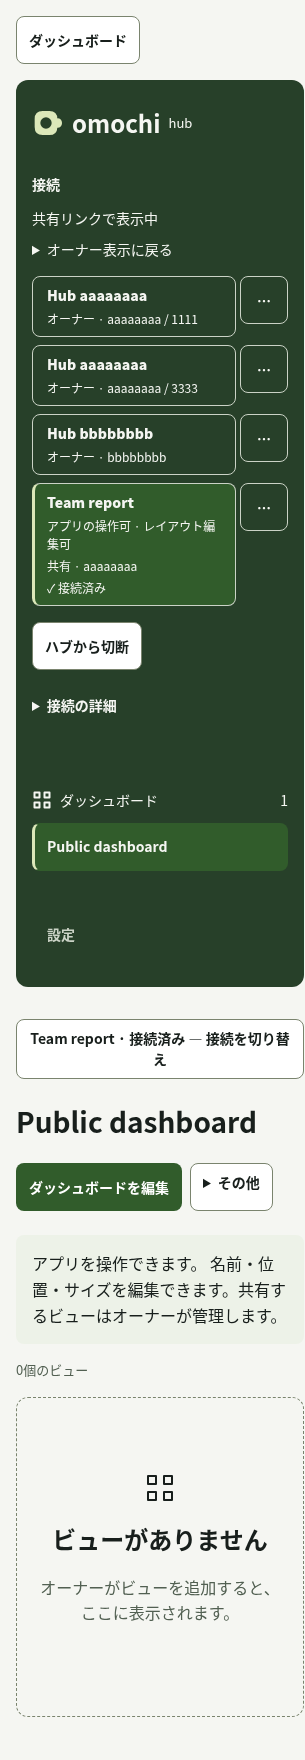
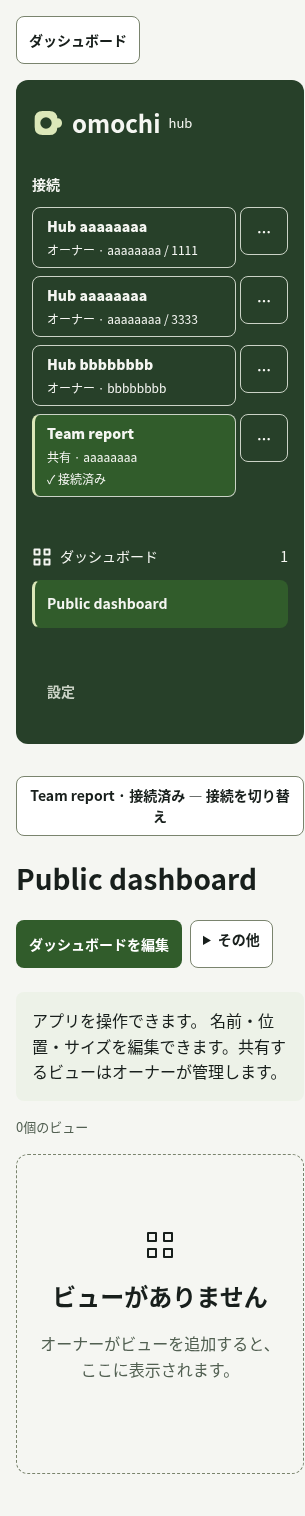
update dashboard UI

diff --git a/packages/hub-ui/src/remote/ConnectionControls.tsx b/packages/hub-ui/src/remote/ConnectionControls.tsx
@@ -5,57 +5,49 @@ import { Modal } from '../dialogs.js';
 import type { ConnectionAction, ConnectionState, ConnectionEntry } from './connection-controller.js';
 import { nativeConnectionLink } from './native-link.js';
 
-export function ConnectionControls({ state, dispatch, heading, onForget, onReset }: {
+export function ConnectionControls({ state, dispatch, heading, showHeading = true, onForget }: {
   state: ConnectionState;
   dispatch(action: ConnectionAction): Promise<void>;
   heading?: Ref<HTMLHeadingElement>;
+  showHeading?: boolean;
   onForget?: (record: ConnectionEntry, trigger: HTMLElement) => void;
-  onReset(trigger: HTMLElement): void;
 }) {
   const { t } = useTranslation();
-  const { active, browserId, entries, busy, error, listError } = state;
+  const { active, entries, busy, error, listError } = state;
   const [manage, setManage] = useState<{ entry: ConnectionEntry; trigger: HTMLElement } | null>(null);
   const [name, setName] = useState('');
   const [invalid, setInvalid] = useState(false);
-  const appLink = active?.kind === 'public' ? nativeConnectionLink(active.link) : null;
-  const owners = entries.filter(e => e.owner && e.hubId === active?.id.split('/')[0]);
+  const managedEntry = manage && (entries.find(entry => entry.id === manage.entry.id) ?? manage.entry);
+  const managedActive = active?.id === managedEntry?.id ? active : null;
+  const appLink = managedEntry?.link ? nativeConnectionLink(managedEntry.link) : null;
   const label = (entry: ConnectionEntry) => entry.name || t('connection.defaultName');
   const select = (id: string) => { void dispatch({ type: 'select', id }); };
   return <section className="shared-connections" aria-label={t('connection.label')}>
-    <h2 ref={heading} tabIndex={-1}>{t('connection.title')}</h2>
-    {active && !active.owner && <div className="share-context">
-      <p>{t('connection.viewingShare')}</p>
-
-      {owners.length === 1 ? <Button disabled={busy} onClick={() => select(owners[0]!.id)}>{t('connection.returnOwner')}</Button>
-        : owners.length > 1 ? <details><summary>{t('connection.returnOwner')}</summary>{owners.map(owner => <Button key={owner.id} disabled={busy} onClick={() => select(owner.id)}>{label(owner)} · {owner.grantId.slice(0, 8)}</Button>)}</details> : <p>{t('connection.chooseConnection')}</p>}
-    </div>}
+    <h2 ref={heading} hidden={!showHeading} tabIndex={-1}>{t('connection.title')}</h2>
     {listError && <div role="alert"><p>{t(`sessionError.${listError.code}`)}</p><Button disabled={busy} onClick={() => { void dispatch({ type: 'refresh' }); }}>{t('connection.retryOpen')}</Button></div>}
     {!entries.length && <p>{busy ? t('connection.loading') : t('connection.empty')}</p>}
     <div className="connection-list">
       {entries.map(entry => <article className={`connection-record ${active?.id === entry.id ? 'selected' : ''}`} key={entry.id} data-connection-id={entry.id} data-persistent={entry.persistent}>
         <Button static className="connection-select" aria-current={active?.id === entry.id ? 'true' : undefined} disabled={busy} onClick={() => select(entry.id)}>
           <strong>{label(entry)}</strong>
-          {entry.link && active?.id === entry.id && <small>{active.view?.permissions.interact ? t('connection.canInteract') : t('connection.viewOnly')} · {active.view?.permissions.editLayout ? t('connection.canEdit') : t('connection.noEdit')}</small>}
           <small>{entry.owner ? t('connection.ownerRole') : t('connection.shareRole')} · {entry.hubId.slice(0, 8)}{entries.filter(e => e.hubId === entry.hubId && e.owner === entry.owner).length > 1 ? ` / ${entry.grantId.slice(0, 4)}` : ''}</small>
           {(entry.state === 'pending' || active?.id === entry.id || !entry.persistent) && <small>{entry.state === 'pending' ? t('connection.pending') : active?.id === entry.id ? `${active.status === 'Connected' ? '✓' : active.status === 'Connecting' || active.status === 'Reconnecting' ? '…' : '!'} ${t(`status.${active.status}` as 'status.Connected')}` : !entry.persistent ? t('connection.tabOnly') : t('connection.saved')}</small>}
         </Button>
         <Button disabled={busy} className="connection-manage" aria-label={t('connection.manage', { name: label(entry) })} aria-haspopup="dialog" onClick={event => { setName(label(entry)); setInvalid(false); setManage({ entry, trigger: event.currentTarget }); }}>…</Button>
       </article>)}
     </div>
-    <div className="toolbar connection-actions">
-      {active && <Button disabled={busy || !!state.invitation} onClick={() => { void dispatch({ type: 'disconnect' }); }}>{t('connection.disconnect')}</Button>}
+    {(active && active.status !== 'Connected' || error && !active) && <div className="toolbar connection-actions">
       {active && active.status !== 'Connected' && <Button disabled={busy} onClick={() => { void dispatch({ type: 'retry' }); }}>{t('connection.retry')}</Button>}
       {error && !active && <Button disabled={busy} onClick={() => { void dispatch({ type: 'retry' }); }}>{t('connection.retryOpen')}</Button>}
-    </div>
-    <details className="connection-details">
-      <summary>{t('connection.details')}</summary>
-      <dl>{active && <><dt>{t('connection.hubId')}</dt><dd><code>{active.id.split('/')[0]}</code></dd></>}
-        {!active && browserId && <><dt>{t('connection.browserId')}</dt><dd><code data-browser-id={browserId}>{browserId}</code></dd></>}
-      </dl>
-      {appLink && <p><a href={appLink}>{t('native.open')}</a></p>}
-      {!active && <Button disabled={busy} className="danger" onClick={event => onReset(event.currentTarget)}>{t('connection.reset')}</Button>}
-    </details>
-    {manage && <Modal labelledBy="connection-manage-title" title={t('connection.manage', { name: label(manage.entry) })} returnTo={manage.trigger} onClose={() => setManage(null)}>
+    </div>}
+    {manage && managedEntry && <Modal className="connection-dialog" labelledBy="connection-manage-title" title={t('connection.manageTitle')} returnTo={manage.trigger} onClose={() => setManage(null)}>
+      {managedActive && <section className="connection-session">
+        <p>{t('connection.current')} · {t(`status.${managedActive.status}` as 'status.Connected')}</p>
+        {!managedActive.owner && managedActive.view && <p>{managedActive.view.permissions.interact ? t('connection.canInteract') : t('connection.viewOnly')} · {managedActive.view.permissions.editLayout ? t('connection.canEdit') : t('connection.noEdit')}</p>}
+        <div className="toolbar">
+          <Button className="connection-disconnect" disabled={busy || !!state.invitation} onClick={() => { setManage(null); void dispatch({ type: 'disconnect' }); }}>{t('connection.disconnect')}</Button>
+        </div>
+      </section>}
       <form onSubmit={event => { event.preventDefault(); if (!name.trim()) { setInvalid(true); return; } void dispatch({ type: 'rename', id: manage.entry.id, name }); }}>
         <label htmlFor="connection-name">{t('connection.name')}</label>
         <input id="connection-name" value={name} maxLength={200} aria-invalid={invalid} aria-describedby={invalid ? 'connection-name-error' : undefined} onChange={e => setName(e.target.value)} />
@@ -64,9 +56,12 @@ export function ConnectionControls({ state, dispatch, heading, onForget, onReset
       </form>
       <p role="status">{state.feedback && t(`connection.${state.feedback}`)}</p>
       {error && <p role="alert">{t(`sessionError.${error.code}`)}</p>}
-      <dl><dt>{t('connection.hubId')}</dt><dd><code>{manage.entry.hubId}</code></dd><dt>{t('connection.grantId')}</dt><dd><code>{manage.entry.grantId}</code></dd></dl>
-      {manage.entry.link && <><p>{t('connection.saveHelp')}</p><Button disabled={busy} onClick={() => { void dispatch({ type: 'saveShare', id: manage.entry.id }); }}>{t('connection.saveShare')}</Button></>}
-      {onForget && <Button disabled={busy} className="danger" onClick={() => { const current = manage; setManage(null); onForget(current.entry, current.trigger); }}>{t('connection.forget')}</Button>}
+      <section className="connection-details">
+        <dl><dt>{t('connection.hubId')}</dt><dd><code>{managedEntry.hubId}</code></dd><dt>{t('connection.grantId')}</dt><dd><code>{managedEntry.grantId}</code></dd></dl>
+        {appLink && <p><a href={appLink}>{t('native.open')}</a></p>}
+      </section>
+      {managedEntry.link && !managedEntry.persistent && <section className="connection-save"><p>{t('connection.saveHelp')}</p><Button disabled={busy} onClick={() => { void dispatch({ type: 'saveShare', id: managedEntry.id }); }}>{t('connection.saveShare')}</Button></section>}
+      {onForget && <div className="toolbar connection-forget"><Button disabled={busy} className="danger" onClick={() => { const current = manage; setManage(null); onForget(managedEntry, current.trigger); }}>{t('connection.forget')}</Button></div>}
     </Modal>}
   </section>;
 }

diff --git a/packages/hub-ui/src/styles.css b/packages/hub-ui/src/styles.css
@@ -229,11 +229,13 @@ body { margin: 0; }
 .shared-connections > h2 { font-size: 1rem; line-height: 1.5; margin-block: 16px; }
 .current-connection { color: var(--omochi-color-text-secondary); font-size: .875rem; }
 .connection-record > .toolbar { flex: 0 1 auto; }
-.connections-page { max-width: 960px; margin-inline: auto; line-height: 1.6; }
+.connections-page { width: 100%; max-width: 640px; margin-inline: auto; line-height: 1.6; }
+.connections-page > .connection-details { margin-block-start: var(--omochi-space-8); }
 .connections-page h1 { font-size: 2rem; line-height: 1.3; margin-block: 24px; }
 .invitation-feedback { margin: 16px; }
 
 .picker .dialog-header { position: sticky; top: -24px; z-index: 2; background: var(--omochi-color-bg-surface); margin: -24px -24px 16px; padding: 24px 24px 16px; }
+.picker { scroll-padding-block-start: var(--dialog-header-height, 0px); }
 .dialog-header h2 { flex: 1; min-width: 0; }
 .dialog-header .hub-button { flex: 0 0 auto; padding: 8px; }
 @media (max-width: 760px) { .picker .dialog-header { margin-inline: -16px; padding-inline: 16px; } }
@@ -251,13 +253,14 @@ body { margin: 0; }
 .sidebar .connection-record.selected .connection-select { background: var(--omochi-color-accent-solid); border-inline-start-color: var(--omochi-color-focus-inverse); }
 .connection-record.selected .connection-select { border-inline-start: 3px solid var(--omochi-color-accent-solid); padding-inline-start: 12px; }
 .connection-actions { margin-block-start: 16px; }
-.share-context { font-size: .875rem; margin-block-end: 16px; }
-.share-context p { margin-block: 8px; }
-.sidebar .connection-details a { color: inherit; }
+.connection-switch { overflow-wrap: anywhere; }
 .sidebar .picker { color: var(--omochi-color-text-primary); }
 .sidebar .picker :focus-visible { outline-color: var(--omochi-color-focus); }
-.sidebar .picker form { display: grid; gap: 12px; }
-.sidebar .picker dd { overflow-wrap: anywhere; }
+.connection-dialog form { display: grid; gap: 12px; }
+.connection-dialog .connection-session { margin-block-end: var(--omochi-space-6); }
+.connection-session p { margin-block: 0 var(--omochi-space-2); }
+.connection-dialog :is(.connection-details, .connection-save, .connection-forget) { margin-block-start: var(--omochi-space-6); }
+.connection-dialog a { color: var(--omochi-color-accent-solid); }
 .board-actions { position: relative; }
 .board-actions > summary { cursor: pointer; padding: 8px 12px; border: 1px solid var(--omochi-color-border-control); border-radius: var(--omochi-radius-control); min-height: 40px; font-size: .875rem; font-weight: 600; line-height: 1.5; background: var(--omochi-color-bg-surface); color: var(--omochi-color-text-primary); }
 .board-actions-menu { position: absolute; z-index: 3; inset-inline-end: 0; min-width: 200px; max-width: calc(100vw - 32px); display: grid; gap: 8px; padding: 12px; background: var(--omochi-color-bg-surface); border: 1px solid var(--omochi-color-border-control); border-radius: calc(var(--omochi-radius-control) + 12px + 1px); box-shadow: var(--omochi-shadow-surface); }

diff --git a/packages/hub-ui/src/remote/ConnectionScreen.tsx b/packages/hub-ui/src/remote/ConnectionScreen.tsx
@@ -1,6 +1,7 @@
 import { useCallback, useEffect, useRef, useState } from 'react';
 import { useTranslation } from 'react-i18next';
 import App from '../App.js';
+import { Button } from '../Button.js';
 import { DashboardNavigationProvider } from '../DashboardNavigation.js';
 import { LanguageSwitcher } from '../LanguageSwitcher.js';
 import { ShareSettings } from '../ShareSettings.js';
@@ -38,10 +39,15 @@ function Connections(props: ConnectionScreenProps) {
     state={state}
     dispatch={dispatch}
     heading={heading}
+    showHeading={!!active}
     onForget={(record, trigger) => setForget({ record, trigger })}
-    onReset={setResetTrigger}
   />;
   const notice = !invitation && <ConnectionError error={error} />;
+  const identityDetails = <details className="connection-details">
+    <summary>{t('connection.details')}</summary>
+    {browserId && <dl><dt>{t('connection.browserId')}</dt><dd><code data-browser-id={browserId}>{browserId}</code></dd></dl>}
+    <Button disabled={busy} className="danger" onClick={event => setResetTrigger(event.currentTarget)}>{t('connection.reset')}</Button>
+  </details>;
 
   return <>
     <GatewayInvitation
@@ -52,7 +58,8 @@ function Connections(props: ConnectionScreenProps) {
       ownsProfile={state.ownsProfile}
       connections={<>
         {!active && notice}
-        <ConnectionControls state={state} dispatch={dispatch} onReset={setResetTrigger} />
+        <ConnectionControls state={state} dispatch={dispatch} />
+        {!active && identityDetails}
       </>}
       suspended={!!invitation}
     />
@@ -73,12 +80,14 @@ function Connections(props: ConnectionScreenProps) {
       renderSharing={active.owner
         ? board => <ShareSettings boardId={board.id} repository={new OwnerSharingRepository(active.session)} />
         : undefined}
-    /> : <div className="hub-layout nav-open"><aside className="sidebar">{controls}</aside><main className="workspace connections-page">
+    /> : <main id="workspace" tabIndex={-1} className="workspace connections-page">
       <div className="workspace-status"><LanguageSwitcher /></div>
       <h1 tabIndex={-1}>{t('connection.title')}</h1>
       {notice}
-      <p>{t('connection.chooseConnection')}</p>
-    </main></div>}
+      {!!state.entries.length && <p>{t('connection.chooseConnection')}</p>}
+      {controls}
+      {identityDetails}
+    </main>}
     {invitation && <OwnerInvitation
       invitation={invitation}
       busy={busy}

diff --git a/packages/hub-ui/src/locales/ja.ts b/packages/hub-ui/src/locales/ja.ts
@@ -227,6 +227,7 @@ export default {
     "rename": "名前を保存",
     "name": "接続名",
     "manage": "「{{name}}」の接続を管理",
+    "manageTitle": "接続を管理",
     "saved": "保存済み",
     "tabOnly": "このタブのみ",
     "noEdit": "レイアウト編集不可",
@@ -236,8 +237,6 @@ export default {
     "shareRole": "共有",
     "ownerRole": "オーナー",
     "chooseConnection": "下の一覧からオーナー接続や別の接続を選べます。",
-    "returnOwner": "オーナー表示に戻る",
-    "viewingShare": "共有リンクで表示中",
     "switch": "接続を切り替え",
     "details": "接続の詳細",
     "hubId": "ハブID",

diff --git a/packages/hub-ui/src/dialogs.tsx b/packages/hub-ui/src/dialogs.tsx
@@ -38,7 +38,11 @@ export function Modal({
     const element = dialog.current;
     if (!open) return;
     element?.showModal();
-    return () => { element?.close(); restoreDialogFocus(returnTo); };
+    const header = element?.querySelector('.dialog-header');
+    const measureHeader = () => { if (element && header) element.style.setProperty('--dialog-header-height', `${header.getBoundingClientRect().height}px`); };
+    const observer = new ResizeObserver(measureHeader);
+    if (header) { measureHeader(); observer.observe(header); }
+    return () => { observer.disconnect(); element?.close(); restoreDialogFocus(returnTo); };
   }, [open, returnTo]);
   return (
     <dialog

diff --git a/packages/hub-ui/src/locales/en.ts b/packages/hub-ui/src/locales/en.ts
@@ -225,6 +225,7 @@ export default {
     "rename": "Save name",
     "name": "Connection name",
     "manage": "Manage {{name}}",
+    "manageTitle": "Manage connection",
     "saved": "Saved",
     "tabOnly": "This tab",
     "noEdit": "Layout locked",
@@ -234,8 +235,6 @@ export default {
     "shareRole": "Shared",
     "ownerRole": "Owner",
     "chooseConnection": "Choose an owner or another connection below.",
-    "returnOwner": "Return to owner view",
-    "viewingShare": "Viewing a shared dashboard",
     "switch": "Switch connection",
     "details": "Connection details",
     "hubId": "Hub ID",

diff --git a/docs/dashboard-ui.md b/docs/dashboard-ui.md
@@ -41,7 +41,9 @@ Same seeded dashboard before and after the change:
 
 [Owner connections](assets/dashboard-ui/connections-owner.png) ·
 [Shared connection](assets/dashboard-ui/connections-share.png) ·
-[Mobile connections](assets/dashboard-ui/connections-mobile.png)
+[Mobile connections](assets/dashboard-ui/connections-mobile.png) ·
+[Connection manager](assets/dashboard-ui/connections-manage.png) ·
+[Disconnected screen](assets/dashboard-ui/connections-idle.png)
 
 These screenshots use controlled session responses and isolated browser data.
 
@@ -61,8 +63,11 @@ Hub grants also show a grant identifier. The current row shows connection state.
 The mobile **Switch connection** control opens the same sidebar. Selection
 restores the last dashboard/preset and board-view mode for that connection.
 
-Per-row **Manage** opens details, a local display name, explicit shared-link
-saving, and removal. Public links opened in the tab remain available when switching
+The sidebar is connection navigation: it does not repeat the shared-view banner,
+connection details, or disconnect action. Per-row **Manage** opens details, a
+local display name, native-app handoff, explicit shared-link saving, and removal.
+Only the current connection's manager offers **Disconnect from Hub**. Recovery
+keeps **Retry** beside the connection list. Public links opened in the tab remain available when switching
 away; explicit save persists their bearer in a separate IndexedDB connection
 catalog. Catalog patches read the current record inside an IDB transaction;
 metadata updates never write cached bearer credentials. Cross-tab notifications
@@ -79,20 +84,30 @@ The sidebar's **Settings** opens language and browser identity preferences witho
 leaving the board. Reset confirms deletion of the identity, saved connections,
 saved shared links and tab history, and preserves the unsaved-edit guard. Hub
 boards and server grants remain. Local Hub administration is under its sidebar
-connection details. The disconnected hosted screen also retains connection
-navigation. Normal board actions keep Edit and Share visible, with Export, Board
+connection details. The disconnected hosted screen centers connection navigation
+and browser identity details in the main content, without a sidebar. Normal board actions keep Edit and Share visible, with Export, Board
 view and Delete under **More actions**; Delete retains confirmation.
 
 `bun tests/browser/connections.mjs` checks cold shared startup, multi-Hub board
 restoration, explicit share saving, new-tab access, endpoint release, 320px/200%
 text layouts and focus recovery with real React, IndexedDB and Web Locks and
-controlled transport responses. Screenshots are written to
+controlled transport responses. It also verifies that only the current
+connection's manager offers disconnect and that native handoff remains available.
+Screenshots are written to
 `/tmp/omochi-connections-screenshots` (or `SCREENSHOT_DIR`).
+
+The connection layout was additionally checked at 320, 360, 390, 640, 760, 761,
+1024, 1440 and 1920 CSS pixels in both directions, using English, Japanese,
+German test strings and pseudo-localization. The checks include long names, 200%
+text, simulated 200% browser-zoom geometry, and scrolling controls beneath the
+measured sticky dialog header. Connection names wrap in the switch control;
+management titles stay short while the full editable name remains in the form.
+Real-device Safari and browser zoom shortcuts were not verified.
 
 The pre-bootstrap native-app link remains available if transport initialization
 fails. Once React loads, the invitation dialog owns that action, so registering
 or dismissing the invitation removes it. Public-share native handoff is available
-under connection details. These labels follow the selected interface language.
+under the shared connection's **Manage** details. These labels follow the selected interface language.
 
 The controlled-session browser regression checks are run with
 `bun tests/browser/gateway-reconnect.mjs`. They cover modal dismissal, owner

diff --git a/apps/site/src/content/docs/docs/guides/dashboards.md b/apps/site/src/content/docs/docs/guides/dashboards.md
@@ -44,15 +44,16 @@ omochi-ui hub --remote
 サイドバーの **接続** に、オーナー接続と共有ダッシュボードが並びます。
 接続を選び、その下からダッシュボードを選択します。元の接続に戻ると、
 直前のダッシュボードが復元されます。共有とオーナーの権限は別です。
-ハブを管理するには **オーナー表示に戻る** またはオーナー接続を選んでください。
+ハブを管理するには、一覧のオーナー接続を選んでください。
 
-接続の **…** から、名前の変更・IDの確認・保存済み情報の削除ができます。
+接続の **…** から、名前の変更・IDの確認・アプリで開く・保存済み情報の削除ができます。
 **この共有接続を保存** は、リンクとアクセスに必要な秘密情報をこのブラウザに
 保存し、タブを閉じても開けるようにします。保存しない共有は現在のタブ内だけで
 利用できます。保存しても権限は増えず、保存済み接続を削除してもハブ側の
 アクセス権は取り消されません。
 
-狭い画面では **接続を切り替え** から一覧を開きます。**ハブから切断** すると、
+狭い画面では **接続を切り替え** から一覧を開きます。現在の接続の **…** から **ハブから切断** すると、
 別のタブでブラウザIDを使って接続できます。オーナー招待が開いている場合は、
 先に完了するか閉じてください。エクスポート・ボード表示・削除は **その他** に
 あります。ダッシュボードの削除には引き続き確認が必要です。
+未接続時は中央の一覧から接続を選べます。ブラウザIDの確認とリセットは、その下の **接続の詳細** にあります。

diff --git a/apps/site/src/content/docs/en/docs/guides/dashboards.md b/apps/site/src/content/docs/en/docs/guides/dashboards.md
@@ -44,15 +44,16 @@ Use an [owner connection](../remote/#connect-from-a-hosted-browser) for full man
 The sidebar's **Connections** lists owner connections and shared dashboards.
 Select a connection, then choose one of its dashboards below. Switching back
 restores your previous dashboard. Shared access stays separate from owner access;
-choose **Return to owner view** or an owner connection to manage the Hub.
+choose an owner connection in the list to manage the Hub.
 
-Open a connection's **…** control to rename it, inspect its IDs, or remove its
+Open a connection's **…** control to rename it, inspect its IDs, open a shared link in the app, or remove its
 saved entry. **Save this shared connection** keeps the link and its access secret
 in this browser so it can be opened after closing the tab. Without saving,
 opened shares remain available only in the current tab. Saving does not increase
 permissions, and removing a saved connection does not revoke Hub access.
 
-On narrow screens, **Switch connection** opens the connection list. **Disconnect
-from Hub** makes the browser identity available to another tab. Close or finish
+On narrow screens, **Switch connection** opens the connection list. Choose **Disconnect
+from Hub** in the current connection's **…** control to make the browser identity available to another tab. Close or finish
 an owner invitation before disconnecting. Export, Board view and Delete are in
 **More actions**; deleting a dashboard still requires confirmation.
+When disconnected, choose a connection from the centered list. **Connection details** below it contains the browser ID and its reset action.
